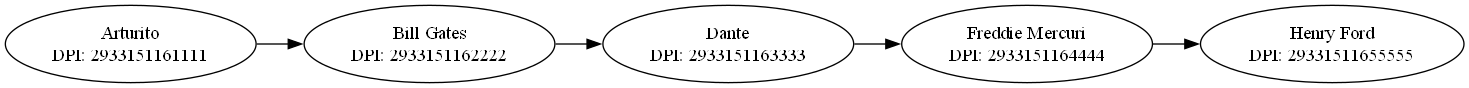
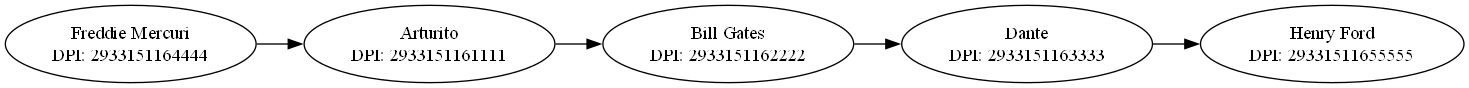
proyecto terminado con modificacion de codigo

diff --git a/lector_xml.py b/lector_xml.py
@@ -1,5 +1,3 @@
-# lector_xml.py
-
 import xml.etree.ElementTree as ET
 from modelos.empresa import Empresa
 from modelos.punto_atencion import PuntoAtencion
@@ -98,9 +96,20 @@ class LectorXML:
                         if transaccion:
                             cliente.agregar_transaccion(transaccion, cantidad)
 
-                    punto.agregar_cliente(cliente)  # 👈 se agrega correctamente a la cola
-
+                    if c.get("prioridad") == "si":
+                        punto.agregar_cliente_prioridad(cliente)
+                    else:
+                        punto.agregar_cliente(cliente)
+            
             print("Archivo de inicio cargado correctamente.")
+
+            print("\n🧾 Estado de la cola de espera:")
+            temp = punto.cola_espera.frente
+            i = 1
+            while temp:
+                cliente = temp.dato
+                print(f"{i}. {cliente.nombre} (DPI: {cliente.dpi})")
+                temp = temp.siguiente
+                i += 1
         except Exception as e:
             print(f"Error al cargar archivo de inicio: {e}")
-

diff --git a/estructuras/cola.py b/estructuras/cola.py
@@ -23,6 +23,15 @@ class Cola:
             self.final = nuevo
         self._size += 1
 
+    def encolar_prioridad(self, dato):
+        nuevo = Nodo(dato)
+        if self.esta_vacia():
+            self.frente = self.final = nuevo
+        else:
+            nuevo.siguiente = self.frente
+            self.frente = nuevo
+        self._size += 1
+
     def desencolar(self):
         if self.esta_vacia():
             return None

diff --git a/modelos/punto_atencion.py b/modelos/punto_atencion.py
@@ -18,6 +18,9 @@ class PuntoAtencion:
     def agregar_cliente(self, cliente):
         self.cola_espera.encolar(cliente)
 
+    def agregar_cliente_prioridad(self, cliente):
+        self.cola_espera.encolar_prioridad(cliente)
+
     def atender(self):
         atendidos = []
         for escritorio in self.escritorios.recorrer_adelante():
